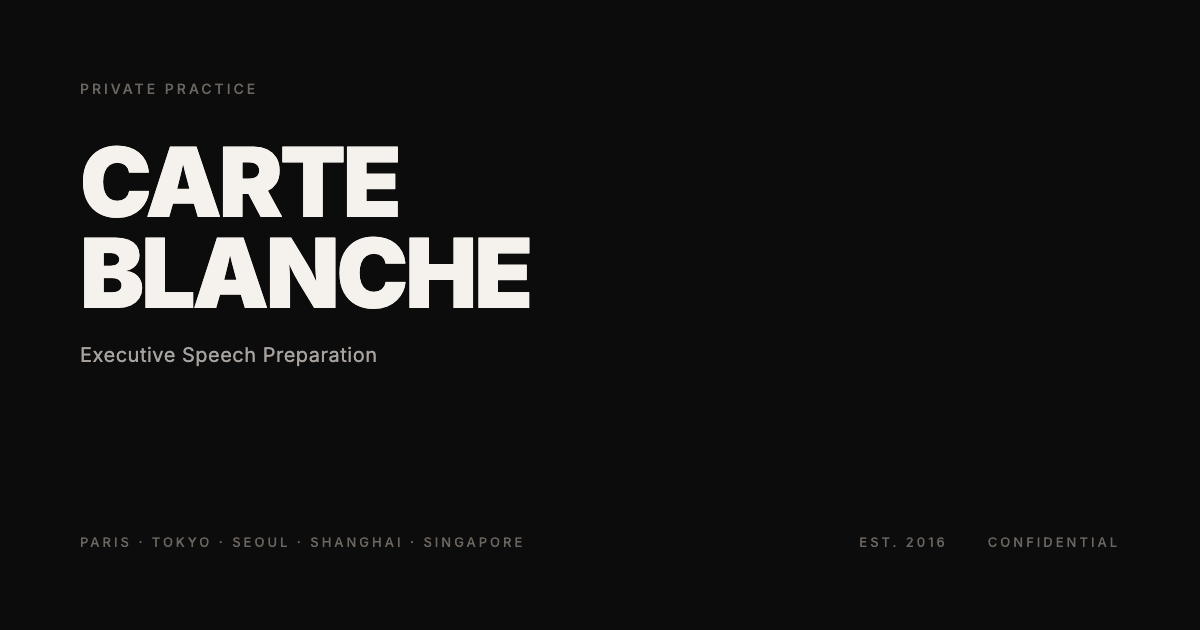
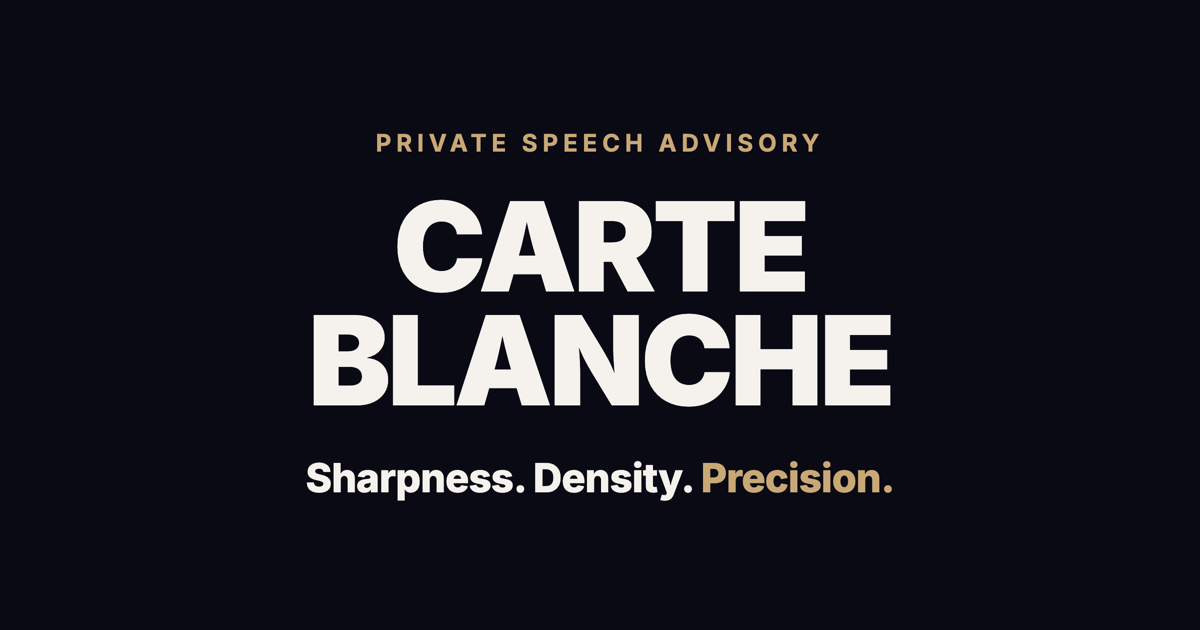
Refresh OG image with new positioning and gold accent palette

diff --git a/og-image.html b/og-image.html
@@ -1,0 +1,64 @@
+<!DOCTYPE html>
+<html>
+<head>
+<meta charset="UTF-8">
+<link href="https://fonts.googleapis.com/css2?family=Inter:wght@300;400;500;600;700;800;900&display=swap" rel="stylesheet">
+<style>
+* { margin: 0; padding: 0; box-sizing: border-box; }
+html, body { width: 1200px; height: 630px; }
+body {
+    background: #0a0a14;
+    font-family: 'Inter', sans-serif;
+    display: flex;
+    flex-direction: column;
+    align-items: center;
+    justify-content: center;
+    text-align: center;
+    padding: 50px 60px;
+    overflow: hidden;
+    position: relative;
+}
+.label {
+    font-size: 24px;
+    font-weight: 700;
+    letter-spacing: 5px;
+    text-transform: uppercase;
+    color: #c9a876;
+    margin-bottom: 32px;
+}
+.title {
+    font-size: 124px;
+    font-weight: 900;
+    color: #f5f2ed;
+    letter-spacing: -3.5px;
+    line-height: 0.92;
+}
+.signature {
+    font-size: 40px;
+    font-weight: 800;
+    letter-spacing: -0.6px;
+    margin-top: 36px;
+    color: #f5f2ed;
+}
+.signature .gold { color: #c9a876; }
+.cities {
+    position: absolute;
+    bottom: 36px;
+    left: 0;
+    right: 0;
+    text-align: center;
+    font-size: 12px;
+    font-weight: 600;
+    letter-spacing: 3px;
+    text-transform: uppercase;
+    color: #6b6560;
+}
+</style>
+</head>
+<body>
+    <div class="label">Private Speech Advisory</div>
+    <div class="title">CARTE<br>BLANCHE</div>
+    <div class="signature">Sharpness. Density. <span class="gold">Precision.</span></div>
+    <div class="cities">Paris · Singapore · Shanghai · Hong Kong · Seoul · Tokyo</div>
+</body>
+</html>
